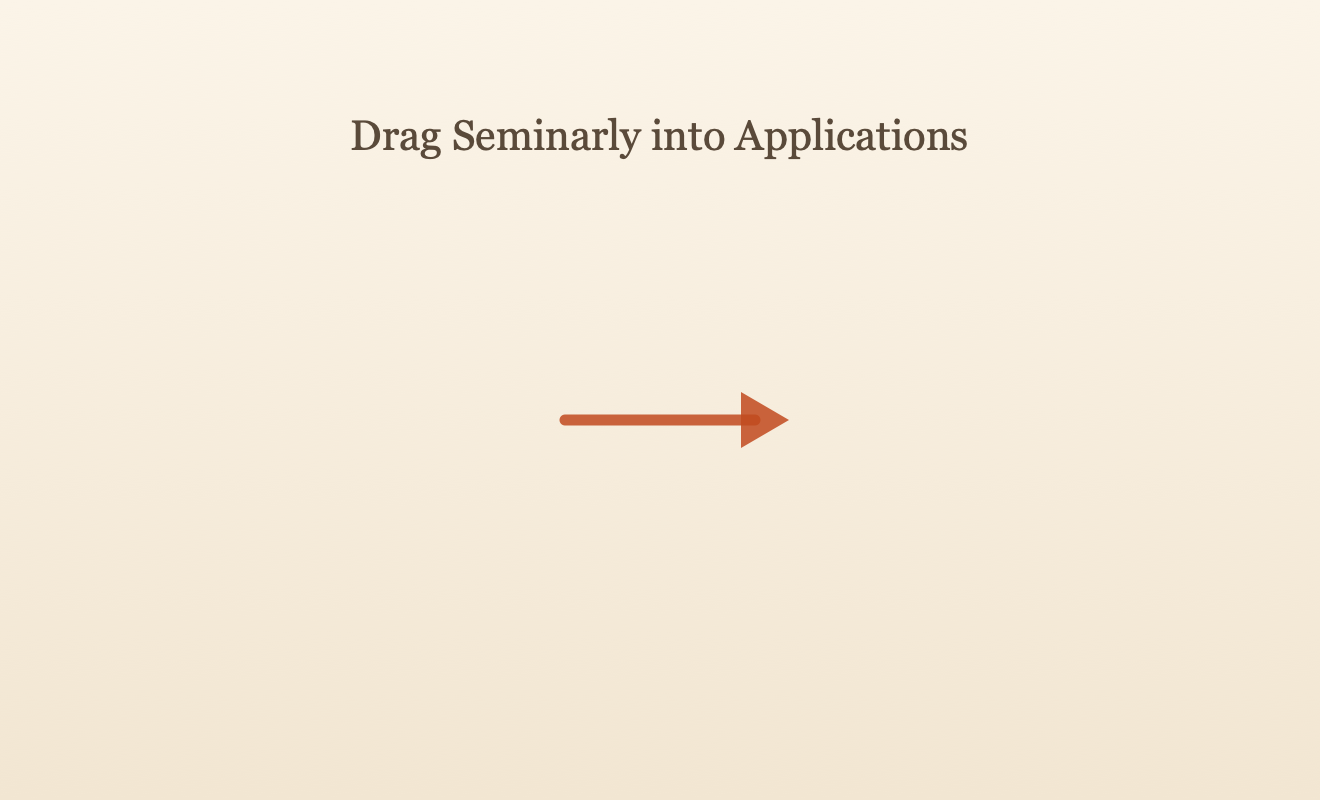
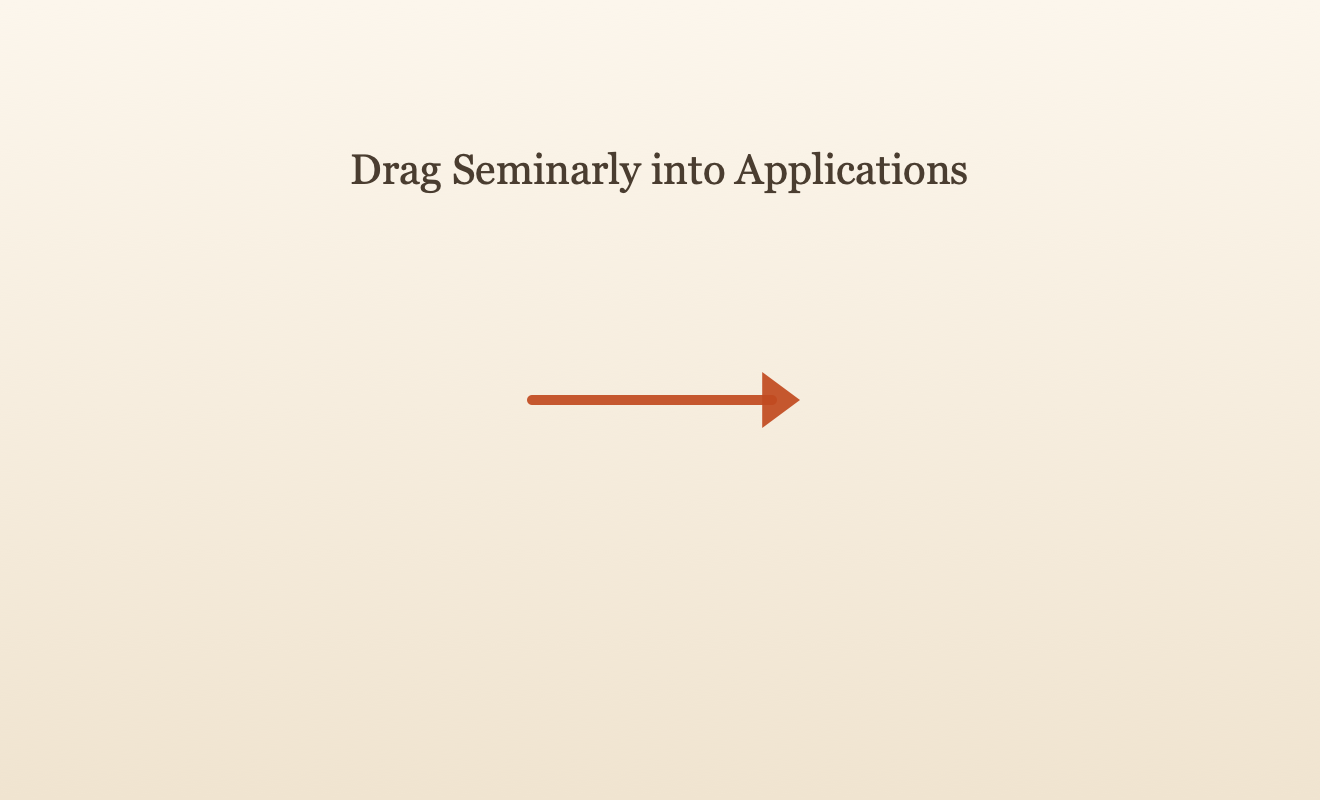
Fix clipped DMG installer background (tag @user DPI, clean layout)
The 1320x800 background was intended as @user but shipped untagged, so Finder —
which lays out a DMG background by its NSImage point size — treated it as
1320x800 pt and cropped to the top-left 660x400, clipping the headline to
"Drag Seminarly i" and pushing the arrow off-screen.

Tag the PNG at 144 DPI so macOS reports it as 660x400 pt (verified via
NSImage): it now fills the window exactly and stays Retina-sharp. Also author
the layout in points, re-center the headline above the icons, and place the
terracotta arrow in the gap between them.

Changed region(s): [[0.2485, 0.1562, 0.7455, 0.25], [0.4038, 0.4688, 0.6212, 0.5625]]

diff --git a/scripts/make-dmg-bg.swift b/scripts/make-dmg-bg.swift
@@ -1,6 +1,12 @@
-// make-dmg-bg.swift — render the DMG window background (660x400 @2x = 1320x800):
-// cream paper gradient, a serif "Drag Seminarly into Applications" line, and a
-// terracotta arrow pointing from the app toward the Applications folder.
+// make-dmg-bg.swift — render the DMG installer window background.
+//
+// The Finder window is 660x400 pt (see dmg-settings.py). We render at 2x
+// (1320x800 px) for Retina sharpness and tag the PNG at 144 DPI so macOS maps the
+// pixels back to 660x400 pt. That tag is essential: Finder draws a DMG background
+// at 1 px = 1 pt, so an untagged 1320x800 image is shown cropped to its top-left
+// 660x400 — which is what clipped the headline to "Drag Seminarly i" and pushed
+// the arrow off-screen. All layout below is authored in points (top-left origin,
+// y down) and aligned to the icon centers from dmg-settings.py.
 //
 //   swift make-dmg-bg.swift <output.png>
 
@@ -10,49 +16,72 @@ import ImageIO
 import Foundation
 import UniformTypeIdentifiers
 
+let scale: CGFloat = 2
+let Wpt: CGFloat = 660, Hpt: CGFloat = 400
+let W = Int(Wpt * scale), H = Int(Hpt * scale)   // 1320 x 800
+
+// Icon geometry mirrors dmg-settings.py (128pt icons centered at these points).
+let iconCenterY: CGFloat = 200
+let appCenterX: CGFloat = 180
+let appsCenterX: CGFloat = 480
+let iconHalf: CGFloat = 64
+
 let cs = CGColorSpaceCreateDeviceRGB()
 func col(_ r: Int, _ g: Int, _ b: Int, _ a: CGFloat = 1) -> CGColor {
     CGColor(colorSpace: cs, components: [CGFloat(r)/255, CGFloat(g)/255, CGFloat(b)/255, a])!
 }
 
-let W = 1320, H = 800
 guard let ctx = CGContext(data: nil, width: W, height: H, bitsPerComponent: 8, bytesPerRow: 0,
                           space: cs, bitmapInfo: CGImageAlphaInfo.premultipliedLast.rawValue) else { exit(1) }
 ctx.interpolationQuality = .high
+ctx.setAllowsAntialiasing(true)
 
-// cream paper gradient
-let g = CGGradient(colorsSpace: cs, colors: [col(251, 244, 232), col(242, 230, 210)] as CFArray, locations: [0, 1])!
+// pt → px; topPt → CoreGraphics y (bottom-left origin).
+func px(_ pt: CGFloat) -> CGFloat { pt * scale }
+func yUp(_ topPt: CGFloat) -> CGFloat { CGFloat(H) - topPt * scale }
+
+// --- cream paper gradient (brand: Braun/Rams warm paper) ----------------------
+let g = CGGradient(colorsSpace: cs, colors: [col(252, 246, 236), col(240, 228, 208)] as CFArray, locations: [0, 1])!
 ctx.drawLinearGradient(g, start: CGPoint(x: 0, y: H), end: CGPoint(x: 0, y: 0), options: [])
 
-// instruction line (Georgia ≈ the site's serif), muted ink, near the top
-func centeredText(_ s: String, _ size: CGFloat, _ color: CGColor, _ cx: CGFloat, _ baselineFromTop: CGFloat, _ fontName: String) {
-    let font = CTFontCreateWithName(fontName as CFString, size, nil)
+// --- serif instruction line, centered above the icons -------------------------
+func centeredText(_ s: String, sizePt: CGFloat, color: CGColor, centerXPt: CGFloat, baselineTopPt: CGFloat, font fontName: String) {
+    let font = CTFontCreateWithName(fontName as CFString, sizePt * scale, nil)
     let attrs: [NSAttributedString.Key: Any] = [
-        NSAttributedString.Key(kCTFontAttributeName as String): font,
-        NSAttributedString.Key(kCTForegroundColorAttributeName as String): color,
+        .init(kCTFontAttributeName as String): font,
+        .init(kCTForegroundColorAttributeName as String): color,
     ]
     let line = CTLineCreateWithAttributedString(NSAttributedString(string: s, attributes: attrs))
     let b = CTLineGetBoundsWithOptions(line, .useOpticalBounds)
-    ctx.textPosition = CGPoint(x: cx - b.width/2, y: CGFloat(H) - baselineFromTop)
+    ctx.textPosition = CGPoint(x: px(centerXPt) - b.width / 2, y: yUp(baselineTopPt))
     CTLineDraw(line, ctx)
 }
-centeredText("Drag Seminarly into Applications", 42, col(90, 74, 58), CGFloat(W)/2, 150, "Georgia")
+centeredText("Drag Seminarly into Applications", sizePt: 21, color: col(74, 61, 48),
+             centerXPt: Wpt / 2, baselineTopPt: 92, font: "Georgia")
 
-// terracotta arrow at vertical centre, pointing right (app → Applications)
-let cy = CGFloat(H)/2 - 20
-let x1: CGFloat = 565, x2: CGFloat = 755
-ctx.setStrokeColor(col(193, 74, 31, 0.85)); ctx.setLineWidth(11); ctx.setLineCap(.round)
-ctx.move(to: CGPoint(x: x1, y: cy)); ctx.addLine(to: CGPoint(x: x2, y: cy)); ctx.strokePath()
-ctx.setFillColor(col(193, 74, 31, 0.85))
-ctx.move(to: CGPoint(x: x2 + 34, y: cy))
-ctx.addLine(to: CGPoint(x: x2 - 14, y: cy + 28))
-ctx.addLine(to: CGPoint(x: x2 - 14, y: cy - 28))
+// --- terracotta arrow, centered in the gap between the two icons --------------
+let arrowY = yUp(iconCenterY)
+let gapStart = appCenterX + iconHalf        // right edge of the app icon
+let gapEnd = appsCenterX - iconHalf         // left edge of the Applications icon
+let shaftLeft = px(gapStart + 22)
+let shaftRight = px(gapEnd - 30)            // leave room for the head
+let terracotta = col(193, 74, 31, 0.92)
+ctx.setStrokeColor(terracotta); ctx.setLineWidth(5 * scale); ctx.setLineCap(.round)
+ctx.move(to: CGPoint(x: shaftLeft, y: arrowY)); ctx.addLine(to: CGPoint(x: shaftRight, y: arrowY)); ctx.strokePath()
+ctx.setFillColor(terracotta)
+let head: CGFloat = 14 * scale
+ctx.move(to: CGPoint(x: shaftRight + head, y: arrowY))
+ctx.addLine(to: CGPoint(x: shaftRight - head * 0.35, y: arrowY + head))
+ctx.addLine(to: CGPoint(x: shaftRight - head * 0.35, y: arrowY - head))
 ctx.closePath(); ctx.fillPath()
 
+// --- write PNG tagged @144 DPI so it lays out at 660x400 pt -------------------
 let out = CommandLine.arguments.count > 1 ? CommandLine.arguments[1] : "dmg-bg.png"
 if let img = ctx.makeImage(),
    let dest = CGImageDestinationCreateWithURL(URL(fileURLWithPath: out) as CFURL, UTType.png.identifier as CFString, 1, nil) {
-    CGImageDestinationAddImage(dest, img, nil)
+    let dpi = 72 * scale
+    let props: [CFString: Any] = [kCGImagePropertyDPIWidth: dpi, kCGImagePropertyDPIHeight: dpi]
+    CGImageDestinationAddImage(dest, img, props as CFDictionary)
     CGImageDestinationFinalize(dest)
-    print("wrote \(out)")
+    print("wrote \(out) (\(W)x\(H) @ \(Int(dpi))dpi → \(Int(Wpt))x\(Int(Hpt))pt)")
 }